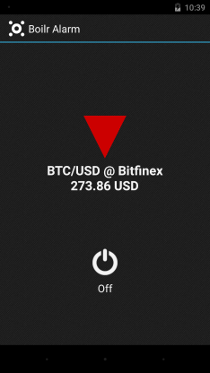
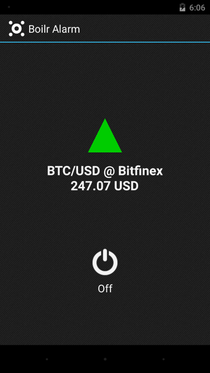
Firing alarm screenshot now with a green one. Expanded info on how to contribute to Boilr.

diff --git a/README.md b/README.md
@@ -32,7 +32,7 @@ Alarm not updating when phone is sleeping. | Set `Settings > Wi-Fi > Advanced > 
 ## Reasons for permissions
 
 Permission | Reason
----------- | --------
+---------- | ------
 Read phone status and identity | Avoids sounding an alarm when you are in the middle of a call.
 Read the contens of your SD card | Used to fetch your costum ringtones.
 Disable your screen lock | So you can turn off a ringing alarm without unlocking your device.
@@ -41,6 +41,16 @@ View network connections | To know whether you're using Wi-Fi or Mobile Data, al
 Run at startup | To grab your active alarms and start updating them. 
 Control vibration | Allows vibration when an alarm is triggered. 
 Prevent phone from sleeping | Used to keep showing the alarm triggered activity until you press the turn off button.
+
+## Contributing
+
+### Translating
+New translations and reviews are much appreciated. If you have 10 minutes to spare just open [Boilr @ Hosted Weblate](https://hosted.weblate.org/projects/boilr/) and start editing. More info at [CONTRIBUTING.md](/CONTRIBUTING.md).
+
+### Coding
+If you know how to program take a look at the [open issues](https://github.com/andrefbsantos/boilr/issues). Check for bugs or features you find interesting and feel free to take them into your hands. If you have any doubt just post your questions on the issue's comments. When done, open a pull request. We promise to review it quickly.
+
+If you would like to add more exchanges to Boilr check [libdynticker's contributing guide](https://github.com/andrefbsantos/libdynticker/blob/master/CONTRIBUTING.md).
 
 ## Building
 1. Fill out the [prerequisites for Android Maven Plugin](https://code.google.com/p/maven-android-plugin/wiki/GettingStarted#Prerequisites).

diff --git a/CONTRIBUTING.md b/CONTRIBUTING.md
@@ -3,7 +3,7 @@
 ## Adding a translation
 
 ### Via Weblate
-1. Just go to [Boilr @ Hosted Weblate](https://hosted.weblate.org/projects/boilr/application/) and start editing. Tip: use Machine translation to ease your work.
+1. Just go to [Boilr @ Hosted Weblate](https://hosted.weblate.org/projects/boilr/) and start editing. Tip: use Machine translation to ease your work.
 
 ### Via git (for coders)
 0. Fork Boilr's repository.
